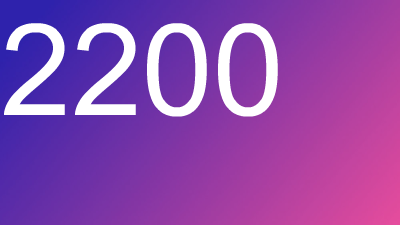
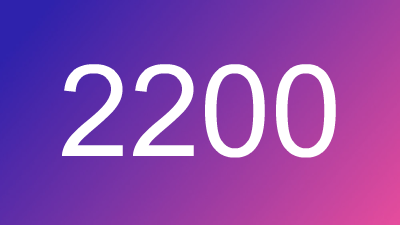
added robotics team thing/updated it

Changed region(s): [[0.0, 0.0933, 0.84, 0.7156]]

diff --git a/roboticsCmds.js b/roboticsCmds.js
@@ -1,0 +1,53 @@
+const axios = require('axios');
+const { MessageAttachment } = require('discord.js');
+const Jimp = require('jimp');
+const dotenv = require("dotenv");
+dotenv.config();
+
+
+async function roboticCmd(message) {
+    if(message.content.startsWith('!team')){
+    args = message.content.split(" ");
+    console.log(args.length)
+    if(args.length == 2){
+        let config = {
+            method: 'get',
+            maxBodyLength: Infinity,
+            headers: { 
+              'X-TBA-Auth-Key': process.env.TBA
+            }
+          };
+
+    try {
+        const blueres = await axios.get(`https://www.thebluealliance.com/api/v3/team/frc${args[1]}`, config);
+        const statsres = await axios.get(`https://api.statbotics.io/v2/team_year/${args[1]}/2023`);
+        const media = await axios.get(`https://www.thebluealliance.com/api/v3/team/frc${args[1]}/media/2023`, config);
+
+        const image = await Jimp.read('images/purp.png');
+        image.resize(16*25, 9*25);
+        const font = await Jimp.loadFont(Jimp.FONT_SANS_128_WHITE);
+        image.print(font, 0, 0, {
+        text: args[1],
+        alignmentX: Jimp.HORIZONTAL_ALIGN_CENTER,
+        alignmentY: Jimp.VERTICAL_ALIGN_MIDDLE},
+        image.bitmap.width, image.bitmap.height);
+        image.write('images/team.png');
+
+        const msg = `Team ${args[1]} is ${blueres.data.nickname} from ${blueres.data.city}, ${blueres.data.state_prov}, ${blueres.data.country}`;
+
+        await message.reply({
+            content: msg,
+            files: ["images/team.png"]
+        })
+
+    } catch (error) {
+        console.log(error);
+        return null;
+    }
+    }
+    }
+
+    //new cmd
+}
+
+module.exports = roboticCmd;

diff --git a/index.js b/index.js
@@ -2,6 +2,7 @@ const fs = require("node:fs");
 const path = require("node:path");
 const dotenv = require("dotenv");
 const axios = require("axios");
+const roboticsCmd = require("./roboticsCmds");
 
 dotenv.config();
 const { Client, Collection, Events, GatewayIntentBits } = require("discord.js");
@@ -66,31 +67,9 @@ client.on(Events.InteractionCreate, async (interaction) => {
   }
 });
 
-//auth key has to be Auth='WHATEVERTHEKEYIS'
-let config = {
-  method: 'get',
-  maxBodyLength: Infinity,
-  headers: { 
-    'X-TBA-Auth-Key': process.env.TBA
-  }
-};
-
 client.on(Events.MessageCreate, async (message) => {
-  if (message.content.startsWith("!team")) {
-    args = message.content.split(" ");
-    console.log(args.length)
-    if(args.length == 2){
-      var blueres = await axios.request(`https://www.thebluealliance.com/api/v3/team/frc${args[1]}`,config)
-      .catch((error) => {
-        console.log(error);
-      });
-      
-      
-      console.log(blueres.data)
-      message.channel.send(`Team ${args[1]} is ${blueres.data.nickname} from ${blueres.data.city}, ${blueres.data.state_prov}, ${blueres.data.country}`);
-      message.reply('idiot')
-      // statsres = await axios.get(`https://www.thebluealliance.com/api/v3/team/frc${args[1]}`);
-    }
+  if (message.content.startsWith("!")) {
+    roboticsCmd(message)
   }
 });
 
